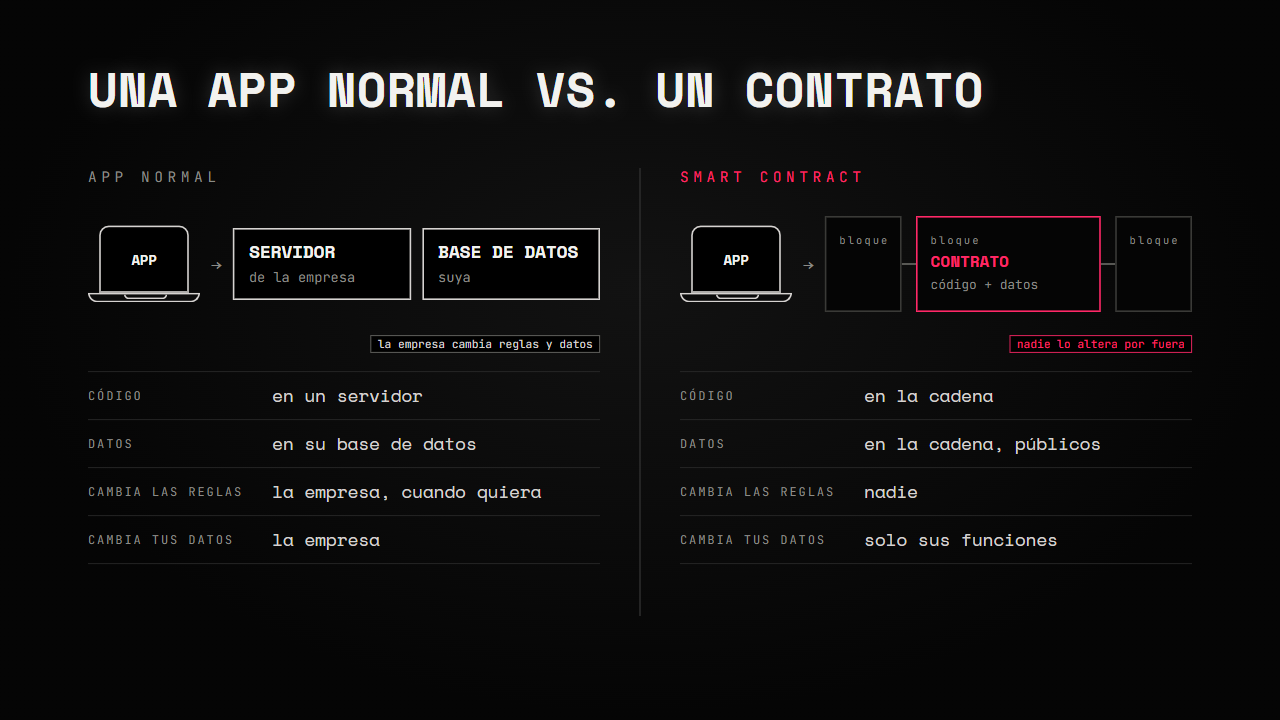
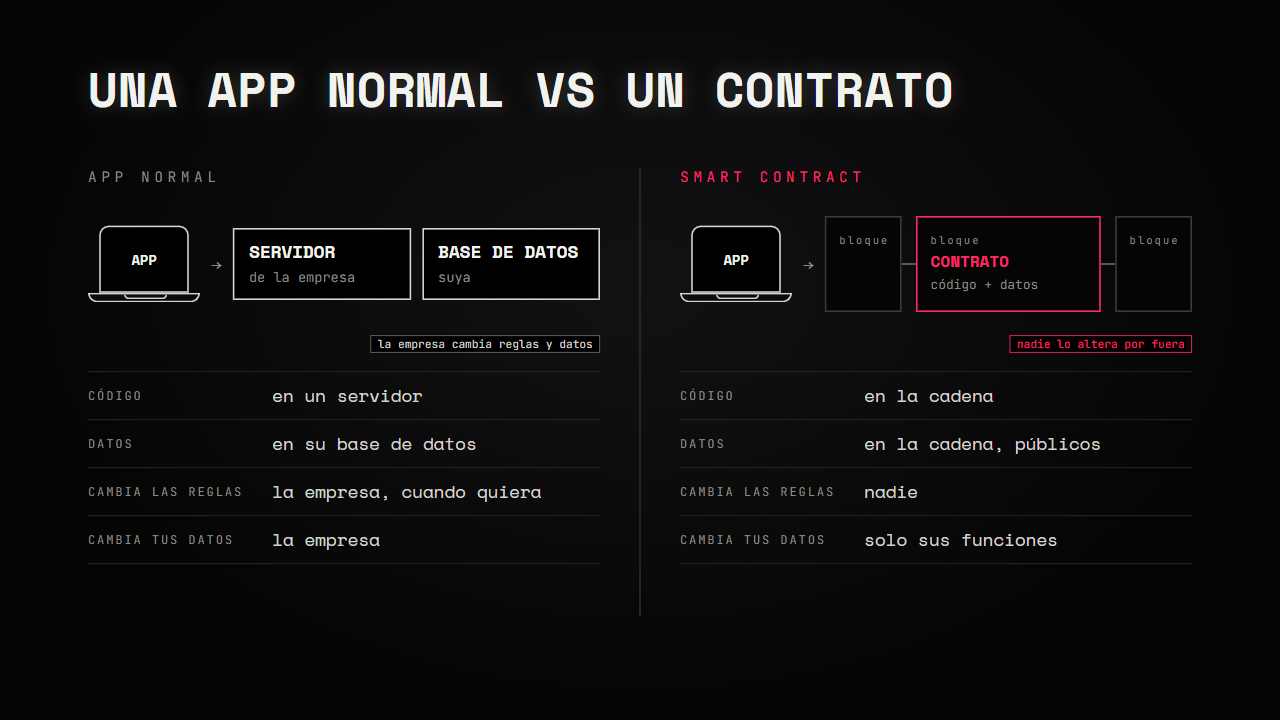
docs(slides): ajustes de diapositivas (portadas visuales, sandbox con hosts, contratos, contexto, skills, publicar)

Changed region(s): [[0.4688, 0.0917, 0.7812, 0.1528]]

diff --git a/slides/03-smart-contracts.html b/slides/03-smart-contracts.html
@@ -98,9 +98,9 @@
 .c-brk span { position: absolute; left: 50%; top: -12px; transform: translateX(-50%); background: #000; padding: 0 10px; font: 16px var(--mono); color: var(--ink); white-space: nowrap; }
 .c-brk + * { grid-column: 1; }
 /* Búsqueda llave → mapping → valor */
-.c-look { display: grid; grid-template-columns: 250px 60px 520px 60px 250px 1fr; row-gap: 16px; align-items: center; }
-.c-look .c-cell { font-size: 20px; padding: 16px 10px; }
-.c-look .c-box { padding: 10px 18px; }
+.c-look { display: grid; grid-template-columns: 250px 60px 520px 60px 250px 1fr; row-gap: 10px; align-items: center; }
+.c-look .c-cell { font-size: 20px; padding: 10px 10px; }
+.c-look .c-box { padding: 7px 18px; }
 .c-look .c-box span { margin-top: 2px; }
 .c-pair { grid-row: span 2; align-self: stretch; margin: 24px 0 24px 18px; border: 2px solid #6b6b66; border-left: 0; display: flex; align-items: center; padding-left: 22px; }
 .c-pair span { font: 16px/1.4 var(--mono); color: var(--ink); }
@@ -127,6 +127,7 @@
 .c-gas { display: grid; grid-template-columns: 90px 1fr; row-gap: 10px; align-items: center; margin-top: 18px; }
 .c-gas span { font: 15px var(--mono); color: var(--muted); letter-spacing: .1em; text-transform: uppercase; }
 .c-gas i { display: block; height: 20px; border: 2px solid #d6d3d1; background: #0b0b0b; }
+.c-gas em { grid-column: 1 / -1; font: 18px/1.4 var(--mono); font-style: normal; color: #d6d3d1; margin: -4px 0 4px; }
 /* Iconos planos (solo bordes) */
 .c-ico { position: relative; width: 84px; height: 64px; flex: none; }
 .c-ico i { position: absolute; display: block; border: 2px solid #d6d3d1; background: #000; }
@@ -137,7 +138,13 @@
 .c-tracks { display: grid; grid-template-columns: repeat(5, 1fr); column-gap: 20px; }
 .c-track { border: 2px solid #3a3a37; background: #000; padding: 30px 22px 26px; height: 360px; display: flex; flex-direction: column; }
 .c-track.pink { border-color: var(--accent); }
-.c-track .c-ico { transform: scale(1.35); transform-origin: left top; margin-bottom: 22px; }
+/* Ilustraciones de track: trazo plano 3 px, detalles en rosa (como .j-save .ic de 05) */
+.c-tic { display: block; flex: none; width: 120px; height: 96px; fill: #000; stroke: #d6d3d1; stroke-width: 3; stroke-linecap: round; stroke-linejoin: round; }
+.c-tic .p { stroke: var(--accent); }
+.c-tic .g { stroke: #6b6b66; }
+.c-tic .fp { fill: var(--accent); stroke: var(--accent); }
+.c-tic .pf { fill: var(--accent); stroke: var(--accent); stroke-width: 2; }
+.c-tic .fg { fill: #3a3a37; stroke: none; }
 .c-track b { display: block; font: 700 24px/1.2 var(--display); text-transform: uppercase; margin-top: 28px; }
 .c-track.pink b { color: var(--accent); }
 .c-track .code { font-size: 18px; white-space: normal; margin-top: auto; padding-top: 16px; border-top: 1px dashed #3a3a37; }
@@ -194,14 +201,41 @@
   <span class="kw">function</span> <span class="fn">submitScore</span>(uint256 score) …
 }</div>
     </div>
-    <div class="tape" style="right:70px; top:140px; transform:rotate(6deg);">SOLIDITY</div>
-    <div class="tape" style="right:60px; top:380px; transform:rotate(-4deg);">OPENZEPPELIN</div>
-    <div class="tape pink" style="left:120px; top:620px; transform:rotate(-5deg);">POLKADOT HUB</div>
+    <!-- Hoja de contrato con sello, unida a una cadena de bloques -->
+    <div class="item" style="left:1070px; top:90px; width:420px;" aria-hidden="true">
+      <svg width="420" height="330" viewBox="0 0 420 330" fill="none" stroke-linecap="round" stroke-linejoin="round" style="display:block;">
+        <path d="M105 8 H275 L315 48 V290 H105 Z" fill="#000" stroke="#d6d3d1" stroke-width="3"/>
+        <path d="M275 8 V48 H315" stroke="#d6d3d1" stroke-width="3"/>
+        <g stroke="none">
+          <rect x="133" y="70" width="52" height="10" rx="4" fill="#ff2867"/><rect x="195" y="70" width="70" height="10" rx="4" fill="#d6d3d1"/>
+          <rect x="153" y="100" width="60" height="10" rx="4" fill="#9fb6d9"/><rect x="223" y="100" width="56" height="10" rx="4" fill="#6b6b66"/>
+          <rect x="153" y="130" width="66" height="10" rx="4" fill="#ff2867"/><rect x="229" y="130" width="50" height="10" rx="4" fill="#d6d3d1"/>
+          <rect x="173" y="160" width="80" height="10" rx="4" fill="#6b6b66"/>
+          <rect x="133" y="190" width="14" height="10" rx="4" fill="#d6d3d1"/>
+        </g>
+        <path d="M133 222 H240" stroke="#3a3a37" stroke-width="2" stroke-dasharray="6 6"/>
+        <path d="M136 252 c8 -14 14 10 22 -4 s12 8 20 -2" stroke="#d6d3d1" stroke-width="2.5"/>
+        <path d="M133 262 H222" stroke="#6b6b66" stroke-width="2"/>
+        <g fill="#ff2867" stroke="#ff2867" stroke-width="2">
+          <path d="M286 284 L276 318 L288 311 L296 322 L300 292 Z"/>
+          <path d="M314 284 L324 318 L312 311 L304 322 L300 292 Z"/>
+        </g>
+        <circle cx="300" cy="250" r="44" fill="#000" stroke="#ff2867" stroke-width="3"/>
+        <circle cx="300" cy="250" r="34" stroke="#ff2867" stroke-width="2" stroke-dasharray="4 5"/>
+        <path d="M283 251 L296 264 L318 238" stroke="#ff2867" stroke-width="6"/>
+        <path d="M210 290 V330" stroke="#6b6b66" stroke-width="2"/>
+      </svg>
+      <div class="c-chain" style="margin-left:9px;">
+        <div class="c-block dim" style="width:110px; height:84px;"><i style="display:block; width:56px; height:8px; background:#3a3a37;"></i><i style="display:block; width:36px; height:8px; margin-top:10px; background:#3a3a37;"></i></div><div class="c-link" style="width:36px;"></div>
+        <div class="c-block pink" style="width:110px; height:84px;"><i style="display:block; width:56px; height:8px; background:var(--accent);"></i><i style="display:block; width:36px; height:8px; margin-top:10px; background:#6b6b66;"></i></div><div class="c-link" style="width:36px;"></div>
+        <div class="c-block dim" style="width:110px; height:84px;"><i style="display:block; width:56px; height:8px; background:#3a3a37;"></i><i style="display:block; width:36px; height:8px; margin-top:10px; background:#3a3a37;"></i></div>
+      </div>
+    </div>
   </section>
 
   <!-- 2 · App normal vs contrato -->
-  <section class="slide plain" data-title="Una app normal vs. un contrato">
-    <div class="item" style="left:110px; top:80px;"><div class="h">Una app normal vs. un contrato</div></div>
+  <section class="slide plain" data-title="Una app normal vs un contrato">
+    <div class="item" style="left:110px; top:80px;"><div class="h">Una app normal vs un contrato</div></div>
     <div class="item" style="left:110px; top:210px; width:640px;">
       <div class="kicker">App normal</div>
       <div style="display:flex; align-items:center; gap:14px; margin-top:22px; height:150px;">
@@ -320,16 +354,21 @@ players.<span class="fn">push</span>(<span class="ty">msg.sender</span>);</div><
   <section class="slide plain" data-title="Mappings">
     <div class="item" style="left:110px; top:80px;"><div class="h">Mappings</div></div>
     <div class="item lead" style="left:110px; top:180px; width:1380px;">Para relacionar una cosa con otra. Le das una llave, te devuelve un valor.</div>
-    <div class="item c-look" style="left:110px; top:260px; width:1380px;">
+    <div class="item c-look" style="left:110px; top:250px; width:1380px;">
       <span class="c-k">Llave</span><span></span><span class="c-k">Mapping</span><span></span><span class="c-k">Valor</span><span></span>
       <div class="c-cell">0x2198…6c23</div><span class="c-ar">→</span><div class="c-box"><b>bestScore</b><span>address =&gt; uint256 · su mejor puntaje</span></div><span class="c-ar">→</span><div class="c-cell">1240</div><span></span>
       <div class="c-cell">0x2198…6c23</div><span class="c-ar">→</span><div class="c-box"><b>usernameOf</b><span>address =&gt; string · su username</span></div><span class="c-ar">→</span><div class="c-cell">"ana_92"</div><div class="c-pair"><span>ida y vuelta:<br>username único</span></div>
       <div class="c-cell">"ana_92"</div><span class="c-ar">→</span><div class="c-box"><b>holderOf</b><span>bytes32 =&gt; address · quién lo tiene</span></div><span class="c-ar">→</span><div class="c-cell">0x2198…6c23</div>
       <div class="c-cell">0x42fb…53e1</div><span class="c-ar">→</span><div class="c-box pink"><b>hasVoted</b><span>address =&gt; bool · ¿ya votó?</span></div><span class="c-ar">→</span><div class="c-cell" style="border-color:var(--accent); color:var(--accent);">true</div><span></span>
     </div>
-    <div class="item c-box dim" style="left:110px; top:690px; width:1380px; display:flex; align-items:center; gap:30px; padding:18px 28px;">
+    <div class="item v-win" style="left:110px; top:618px; width:1380px; display:grid; grid-template-columns:380px 400px 1fr;">
+      <div style="padding:14px 26px; border-right:2px solid #3a3a37;"><div class="c-k">Python</div><div class="code" style="margin-top:6px; font-size:20px;">puntos = {<span class="ty">"0xA1…"</span>: 1240}</div></div>
+      <div style="padding:14px 26px; border-right:2px solid #3a3a37;"><div class="c-k">JavaScript</div><div class="code" style="margin-top:6px; font-size:20px;"><span class="kw">const</span> puntos = <span class="kw">new</span> <span class="fn">Map</span>()</div></div>
+      <div style="padding:14px 26px;"><div class="c-k">Solidity</div><div class="code" style="margin-top:6px; font-size:20px;"><span class="ty">mapping</span>(address =&gt; uint256) <span class="fn">bestScore</span>;</div></div>
+    </div>
+    <div class="item c-box dim" style="left:110px; top:734px; width:1380px; display:flex; align-items:center; gap:22px; padding:16px 28px;">
       <span class="code" style="font-size:22px; color:var(--muted); text-decoration:line-through; text-decoration-color:var(--accent); margin:0;">for (…)</span><span class="c-x" style="font-size:26px;">✘</span>
-      <span style="margin:0; font:23px var(--display); color:#d6d3d1;">No se puede recorrer ni contar. Por eso se combina con una lista.</span>
+      <span style="margin:0; font:21px var(--display); color:#d6d3d1;">No puedes listar las llaves de un mapping. Por eso el contrato también guarda un arreglo.</span>
     </div>
   </section>
 
@@ -357,9 +396,9 @@ players.<span class="fn">push</span>(<span class="ty">msg.sender</span>);</div><
     </div>
   </section>
 
-  <!-- 8 · Quién llama -->
-  <section class="slide plain" data-title="Quién llama">
-    <div class="item" style="left:110px; top:80px;"><div class="h">Quién llama</div></div>
+  <!-- 8 · Quién firma la llamada -->
+  <section class="slide plain" data-title="Quién firma la llamada">
+    <div class="item" style="left:110px; top:80px;"><div class="h">Quién firma la llamada</div></div>
 
     <svg class="wires" viewBox="0 0 1600 900" aria-hidden="true">
       <path d="M520 330 C 740 330, 760 470, 960 470"/>
@@ -391,43 +430,45 @@ players.<span class="fn">push</span>(<span class="ty">msg.sender</span>);</div><
   <!-- 9 · Reglas y eventos -->
   <section class="slide" data-title="Reglas y eventos" style="--bgpos: 60% 20%;">
     <div class="panel" style="left:110px; top:60px; width:900px; padding:34px 52px 38px;"><div class="h">Reglas y eventos</div></div>
-    <div class="panel" style="left:110px; top:240px; width:660px; padding:30px 40px 34px;">
+    <div class="panel" style="left:110px; top:240px; width:660px; height:580px; padding:30px 40px 34px;">
       <div class="c-k">revert · la compuerta</div>
-      <div style="position:relative; margin-top:16px;">
-        <!-- Ramas del rombo: vértice inferior (x 485, y 190) hacia SÍ y NO (y 234) -->
-        <svg class="wires" width="580" height="234" aria-hidden="true">
-          <path class="pink" d="M485 190 V 212 H 140 V 234"/>
-          <path d="M485 212 H 440 V 234"/>
+      <div style="position:relative; margin-top:16px; height:425px;">
+        <!-- Rombo de 170 px en (35, 92): vértices arriba (120, 92), derecho (205, 177) e inferior (120, 262).
+             sí sale del vértice derecho hacia la caja verde; no sale del vértice inferior hacia la caja rosa. -->
+        <svg width="580" height="425" viewBox="0 0 580 425" fill="none" stroke-linecap="round" stroke-linejoin="round" style="position:absolute; left:0; top:0;" aria-hidden="true">
+          <path d="M120 62 V 86" stroke="#d6d3d1" stroke-width="2"/><path d="M113 82 L120 92 L127 82 Z" fill="#d6d3d1" stroke="#d6d3d1" stroke-width="2"/>
+          <path d="M205 177 H 262" stroke="#9be7b0" stroke-width="2"/><path d="M258 170 L268 177 L258 184 Z" fill="#9be7b0" stroke="#9be7b0" stroke-width="2"/>
+          <path d="M120 262 V 292" stroke="#ff2867" stroke-width="2"/><path d="M113 288 L120 298 L127 288 Z" fill="#ff2867" stroke="#ff2867" stroke-width="2"/>
+          <g font-family="JetBrains Mono, monospace" font-size="18">
+            <text x="236" y="163" text-anchor="middle" fill="#9be7b0">sí</text>
+            <text x="134" y="286" fill="#ff2867">no</text>
+          </g>
         </svg>
-        <div style="display:flex; align-items:center; gap:14px;">
-          <div class="c-box" style="flex:1;"><span class="code" style="margin:0; font-size:19px;"><span class="fn">submitScore</span>(…)</span></div>
-          <span class="c-ar">→</span>
-          <div class="c-diamond" style="width:190px; height:190px; flex:none;"><span class="code" style="font-size:16px; line-height:1.4;">score &lt;=<br>current?</span></div>
-        </div>
-        <div style="display:grid; grid-template-columns:1fr 1fr; gap:18px; margin-top:44px;">
-          <div class="c-box pink"><b>✘ sí</b><span class="code" style="font-size:16px; white-space:normal;"><span class="kw">revert</span> <span class="fn">ScoreNotHigher</span>(…)</span><span>no se guarda nada</span></div>
-          <div class="c-box" style="border-color:#9be7b0;"><b style="color:#9be7b0;">✔ no</b><span>guarda</span></div>
-        </div>
+        <div class="c-box" style="position:absolute; left:0; top:0; width:240px; height:62px; display:flex; align-items:center;"><span class="code" style="margin:0; font-size:19px;"><span class="fn">submitScore</span>(…)</span></div>
+        <div class="c-diamond" style="position:absolute; left:35px; top:92px; width:170px; height:170px;"><span class="code" style="font-size:18px; line-height:1.35;">score &gt;<br>récord?</span></div>
+        <div class="c-box" style="position:absolute; left:270px; top:132px; width:310px; height:90px; border-color:#9be7b0;"><b style="color:#9be7b0;">✔ sí · guarda</b><span class="code" style="font-size:18px;"><span class="kw">emit</span> <span class="fn">NewHighScore</span></span></div>
+        <div class="c-box pink" style="position:absolute; left:0; top:300px; width:420px;"><b>✘ no</b><span class="code" style="font-size:18px; white-space:normal;"><span class="kw">revert</span> <span class="fn">ScoreNotHigher</span>(…)</span><span style="font-size:18px;">no se guarda nada</span></div>
       </div>
       <div class="lead" style="margin-top:20px; font-size:22px;">Como <span class="code" style="font-size:21px;">throw</span>. Si revierte, no se guarda nada.</div>
     </div>
-    <div class="panel" style="left:830px; top:240px; width:660px; padding:30px 40px 34px;">
+    <div class="panel" style="left:830px; top:240px; width:660px; height:580px; padding:30px 40px 34px; display:flex; flex-direction:column;">
       <div class="c-k">emit · el aviso</div>
       <div class="code" style="margin-top:16px; font-size:20px;"><span class="kw">emit</span> <span class="fn">NewHighScore</span>(<span class="ty">msg.sender</span>, score);</div>
-      <div class="v-win" style="margin-top:18px;">
+      <div class="v-win" style="margin-top:26px;">
         <div class="v-bar"><i></i><i></i><i></i><span>Historial de la cadena</span></div>
-        <div class="v-body code" style="font-size:18px; line-height:1.9; padding:14px 22px;"><span class="cm">evento</span> NewHighScore(0x2198…6c23, 1240)
-<span class="cm">evento</span> NewHighScore(0x42fb…53e1, 900)</div>
+        <div class="v-body code" style="font-size:19px; line-height:2.3; padding:20px 22px;"><span class="cm">evento</span> NewHighScore(0x2198…6c23, 1240)
+<span class="cm">evento</span> NewHighScore(0x42fb…53e1, 900)
+<span class="cm">evento</span> NewHighScore(0x2198…6c23, 1310)</div>
       </div>
       <div style="margin-top:14px; text-align:right;"><span class="v-tag">la app escucha</span></div>
-      <div class="lead" style="margin-top:16px; font-size:22px;">Un aviso que la app escucha. Más barato que guardar.</div>
+      <div class="lead" style="margin-top:auto; font-size:22px;">Un aviso que la app escucha. Más barato que guardar.</div>
     </div>
   </section>
 
   <!-- 10 · Público y para siempre -->
   <section class="slide grid" data-title="Público y para siempre">
     <div class="item" style="left:110px; top:80px;"><div class="h">Público y para siempre</div></div>
-    <div class="item" style="left:110px; top:205px; width:1380px; height:270px;">
+    <div class="item" style="left:110px; top:190px; width:1380px; height:270px;">
       <div style="text-align:center;"><span class="v-tag" style="color:var(--ink); border-color:#6b6b66;">◉ cualquiera lee · hasta lo private</span></div>
       <div class="c-chain" style="margin-top:18px;">
         <div class="c-block dim" style="width:220px; height:150px;"><span class="n">bloque</span></div><div class="c-link"></div>
@@ -438,18 +479,18 @@ players.<span class="fn">push</span>(<span class="ty">msg.sender</span>);</div><
       <div style="position:absolute; left:456px; top:192px; width:692px; height:30px; border:2px dashed var(--accent); border-top:0;"></div>
       <div class="v-axis" style="position:absolute; left:456px; width:692px; top:212px; text-align:center;"><span style="background:#050505; padding:0 12px; color:var(--accent);">se corrige desplegando otro →</span></div>
     </div>
-    <div class="item c-leg" style="left:110px; top:520px; width:430px;">
+    <div class="item c-leg" style="left:110px; top:490px; width:430px;">
       <b>Nada es secreto</b>
       <p>Hasta lo <span class="code" style="font-size:19px;">private</span> se puede leer. Nunca guardes contraseñas ni datos personales.</p>
     </div>
-    <div class="item c-leg pink" style="left:585px; top:520px; width:430px;">
+    <div class="item c-leg pink" style="left:585px; top:490px; width:430px;">
       <b>No se corrige</b>
       <p>Un error se arregla desplegando otro contrato, con otra dirección. Prueba antes.</p>
     </div>
-    <div class="item c-leg" style="left:1060px; top:520px; width:430px;">
+    <div class="item c-leg" style="left:1060px; top:490px; width:430px;">
       <b>Guardar cuesta</b>
       <p>Cada dato paga gas, y el texto más que los números. Guarda lo mínimo.</p>
-      <div class="c-gas"><span>número</span><i style="width:70px;"></i><span>texto</span><i style="width:260px; background:var(--accent); border-color:var(--accent);"></i></div>
+      <div class="c-gas"><span>número</span><i style="width:70px;"></i><em>uint256 → siempre 32 bytes · 1 slot</em><span>texto</span><i style="width:260px; background:var(--accent); border-color:var(--accent);"></i><em>"ana_dev" → 7 bytes · hasta 31 caben en 1 slot; más largo, más slots</em></div>
     </div>
   </section>
 
@@ -470,7 +511,8 @@ players.<span class="fn">push</span>(<span class="ty">msg.sender</span>);</div><
     <div class="item c-box dash" style="left:650px; top:350px; width:300px; height:210px; display:grid; place-items:center; text-align:center; border-width:3px;"><div><b style="font-size:30px;">Contrato</b><span>solo ve un número<br>y una firma</span></div></div>
     <div class="item c-box" style="left:110px; top:540px; width:450px;"><b>La hora exacta</b><span><span class="code" style="font-size:18px; color:#d6d3d1;">block.timestamp</span> varía unos segundos</span></div>
     <div class="item c-box" style="left:1040px; top:540px; width:450px;"><b>El mundo exterior</b><span>no consulta páginas web ni precios</span></div>
-    <div class="item lead" style="left:110px; top:720px; width:1380px; text-align:center;">Si algo debe ser imposible de trucar, esa lógica vive dentro del contrato.</div>
+    <div class="item c-hl" style="left:110px; top:660px; width:1380px; font:21px/1.45 var(--display); color:#d6d3d1;">Por sí mismo no sabe nada de fuera: precios, clima, resultados ni la hora real más allá del bloque. Para eso se usa un <b class="pink">oráculo</b>, un servicio que trae datos externos a la cadena. No lo veremos en este curso.</div>
+    <div class="item lead" style="left:110px; top:770px; width:1380px; text-align:center;">Si algo debe ser imposible de trucar, esa lógica vive dentro del contrato.</div>
   </section>
 
   <!-- 12 · Recetas por track -->
@@ -478,23 +520,59 @@ players.<span class="fn">push</span>(<span class="ty">msg.sender</span>);</div><
     <div class="panel" style="left:110px; top:60px; width:900px; padding:34px 52px 38px;"><div class="h">Recetas por track</div></div>
     <div class="item c-tracks" style="left:110px; top:260px; width:1380px;">
       <div class="c-track">
-        <div class="c-ico"><i style="left:0; top:10px; width:84px; height:46px; border-radius:23px;"></i><i class="f" style="left:16px; top:26px; width:14px; height:14px; border-radius:50%;"></i><i class="fp" style="left:54px; top:26px; width:14px; height:14px; border-radius:50%;"></i></div>
+        <svg class="c-tic" viewBox="0 0 120 96" aria-hidden="true">
+          <path d="M60 26 V16 C60 10 66 7 72 7"/>
+          <path d="M30 26 H90 C104 26 112 36 114 50 L117 70 C118 80 110 86 102 82 L88 70 H32 L18 82 C10 86 2 80 3 70 L6 50 C8 36 16 26 30 26 Z"/>
+          <path d="M29 39 H39 V44 H44 V54 H39 V59 H29 V54 H24 V44 H29 Z"/>
+          <path d="M54 40 H58 M62 40 H66"/>
+          <circle class="p" cx="84" cy="56" r="6"/>
+          <circle class="fp" cx="96" cy="45" r="6"/>
+        </svg>
         <b>Juegos</b><div class="code">Leaderboard: mapping + lista</div>
       </div>
       <div class="c-track">
-        <div class="c-ico"><i style="left:30px; top:0; width:24px; height:30px;"></i><i style="left:8px; top:22px; width:68px; height:42px;"></i><i class="fp" style="left:24px; top:20px; width:36px; height:4px;"></i></div>
+        <svg class="c-tic" viewBox="0 0 120 96" aria-hidden="true">
+          <rect x="20" y="44" width="80" height="46" rx="3"/>
+          <path d="M14 44 L22 34 H98 L106 44 Z"/>
+          <rect x="47" y="4" width="26" height="35" rx="2"/>
+          <path class="p" d="M53 22 L58 27 L67 15"/>
+          <path d="M42 39 H78"/>
+          <rect class="fg" x="46" y="60" width="28" height="12" rx="2"/>
+        </svg>
         <b>Votaciones</b><div class="code">mapping(address =&gt; bool) hasVoted</div>
       </div>
       <div class="c-track pink">
-        <div class="c-ico"><i style="left:0; top:4px; width:84px; height:56px;"></i><i style="left:12px; top:18px; width:38px; height:2px; border-width:1px;"></i><i style="left:12px; top:30px; width:26px; height:2px; border-width:1px;"></i><i class="p" style="left:54px; top:30px; width:22px; height:22px; border-radius:50%;"></i></div>
+        <svg class="c-tic" viewBox="0 0 120 96" aria-hidden="true">
+          <rect x="8" y="10" width="92" height="66" rx="3"/>
+          <path d="M22 26 H72"/>
+          <path class="g" d="M22 40 H62 M22 52 H54"/>
+          <path class="pf" d="M82 76 L76 92 L84 88 L89 94 L91 80 Z M98 76 L104 92 L96 88 L91 94 L89 80 Z"/>
+          <circle class="p" cx="90" cy="68" r="15"/>
+          <circle class="fp" cx="90" cy="68" r="7"/>
+        </svg>
         <b>Constancias</b><div class="code">ERC-721 no transferible</div>
       </div>
       <div class="c-track pink">
-        <div class="c-ico"><i style="left:4px; top:12px; width:50px; height:50px; border-radius:50%;"></i><i class="p" style="left:30px; top:2px; width:50px; height:50px; border-radius:50%;"></i><i class="fp" style="left:46px; top:18px; width:18px; height:18px; border-radius:50%;"></i></div>
+        <svg class="c-tic" viewBox="0 0 120 96" aria-hidden="true">
+          <path d="M8 76 V84 A26 8 0 0 0 60 84 V76"/><ellipse cx="34" cy="76" rx="26" ry="8"/>
+          <path d="M8 64 V72 A26 8 0 0 0 60 72 V64"/><ellipse cx="34" cy="64" rx="26" ry="8"/>
+          <path d="M8 52 V60 A26 8 0 0 0 60 60 V52"/><ellipse cx="34" cy="52" rx="26" ry="8"/>
+          <circle class="p" cx="84" cy="56" r="27"/>
+          <circle class="p" cx="84" cy="56" r="20" stroke-width="2"/>
+          <polygon class="fp" points="84,45 86.65,52.36 94.46,52.6 88.28,57.39 90.47,64.9 84,60.5 77.53,64.9 79.72,57.39 73.54,52.6 81.35,52.36"/>
+        </svg>
         <b>Puntos</b><div class="code">ERC-20</div>
       </div>
       <div class="c-track">
-        <div class="c-ico"><i style="left:4px; top:2px; width:76px; height:60px; border-radius:6px;"></i><i style="left:12px; top:14px; width:2px; height:36px; border-width:1px;"></i><i class="p" style="left:28px; top:16px; width:32px; height:32px; border-radius:50%;"></i><i class="fp" style="left:42px; top:18px; width:4px; height:12px;"></i></div>
+        <svg class="c-tic" viewBox="0 0 120 96" aria-hidden="true">
+          <rect x="22" y="50" width="76" height="42" rx="4"/>
+          <path d="M28 58 V64 M28 78 V84 M84 64 V78"/>
+          <circle class="p" cx="58" cy="71" r="10"/>
+          <circle class="fp" cx="58" cy="71" r="3"/>
+          <circle cx="32" cy="20" r="7"/><path d="M18 46 Q18 32 32 32 Q46 32 46 46"/>
+          <circle cx="88" cy="20" r="7"/><path d="M74 46 Q74 32 88 32 Q102 32 102 46"/>
+          <circle cx="60" cy="14" r="8"/><path d="M44 46 Q44 28 60 28 Q76 28 76 46"/>
+        </svg>
         <b>Fondos de un club</b><div class="code">payable + reglas para retirar</div>
       </div>
     </div>

diff --git a/contenido/03-smart-contracts.md b/contenido/03-smart-contracts.md
@@ -12,9 +12,9 @@ despliegas en Remix; toma unos 5 minutos.
 
 ---
 
-## 1. Una app normal vs. un contrato
+## 1. Una app normal vs un contrato
 
-![Una app normal vs. un contrato](../img/cap3/app-vs-contrato.png)
+![Una app normal vs un contrato](../img/cap3/app-vs-contrato.png)
 
 | | App normal | Smart contract |
 |---|---|---|
@@ -106,7 +106,7 @@ Ten cuidado con dos cosas:
 ![Mappings](../img/cap3/mappings.png)
 
 Usa un `mapping` cuando quieras **relacionar una cosa con otra**: le das una llave y te devuelve un
-valor. Es como un diccionario o un `Map` de JavaScript.
+valor. Es como un diccionario de Python o un `Map` de JavaScript.
 
 | Para saber… | Mapping |
 |---|---|
@@ -128,7 +128,8 @@ bestScore[msg.sender] = 1240;
 ```
 
 Un mapping tiene un límite importante: **no se puede recorrer** ni saber cuántos elementos tiene.
-Si preguntas por una llave que nunca se guardó, devuelve el valor vacío (`0`, `""`, `false`). Por
+No puedes listar las llaves de un mapping; por eso el contrato también guarda una lista. Si
+preguntas por una llave que nunca se guardó, devuelve el valor vacío (`0`, `""`, `false`). Por
 eso `Leaderboard` usa las dos cosas: el mapping para buscar rápido el puntaje de alguien, y la lista
 para saber quiénes han jugado.
 
@@ -166,7 +167,7 @@ Es parecido a un *getter* contra una función que cambia algo. Si una función s
 
 ---
 
-## 7. Quién llama
+## 7. Quién firma la llamada
 
 `msg.sender` es la cuenta que llama a la función. Se parece al usuario con sesión iniciada en un
 backend, con una diferencia: aquí no hay sesión que robar, porque lo prueba la firma.
@@ -218,7 +219,9 @@ emit NewHighScore(msg.sender, score);
 - **No se puede corregir.** Si encuentras un error después de desplegar, despliegas un contrato
   nuevo, con otra dirección, y los datos del anterior se quedan ahí. Por eso se prueba antes.
 - **Guardar cuesta.** Cada dato que escribes paga gas, y los textos cuestan más que los números.
-  Guarda lo mínimo; lo demás puede ir en eventos o en Bulletin.
+  Un uint256 siempre ocupa 32 bytes (un slot de almacenamiento); un username como `ana_dev` son 7
+  bytes y cabe en un slot, pero un texto de más de 31 bytes ocupa varios. Guarda lo mínimo; lo
+  demás puede ir en eventos o en Bulletin.
 
 ---
 
@@ -235,7 +238,8 @@ emit NewHighScore(msg.sender, score);
 - **La hora es aproximada.** `block.timestamp` lo pone quien produce el bloque y puede variar unos
   segundos. Sirve para plazos de días u horas, no para cronometrar.
 - **No ve el mundo exterior.** Un contrato no puede consultar una página web ni el precio de algo
-  por su cuenta.
+  por su cuenta. Para traer datos de fuera (precios, clima, resultados) se usa un oráculo, un
+  servicio que los publica en la cadena; no lo veremos en este curso.
 
 ---
 
